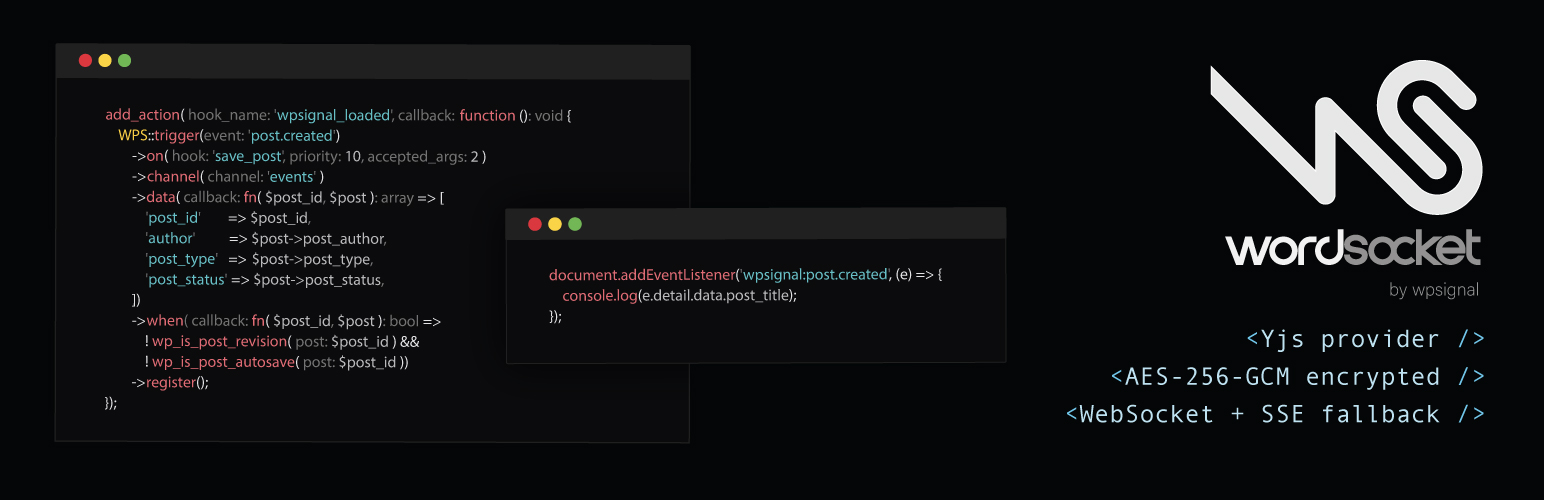
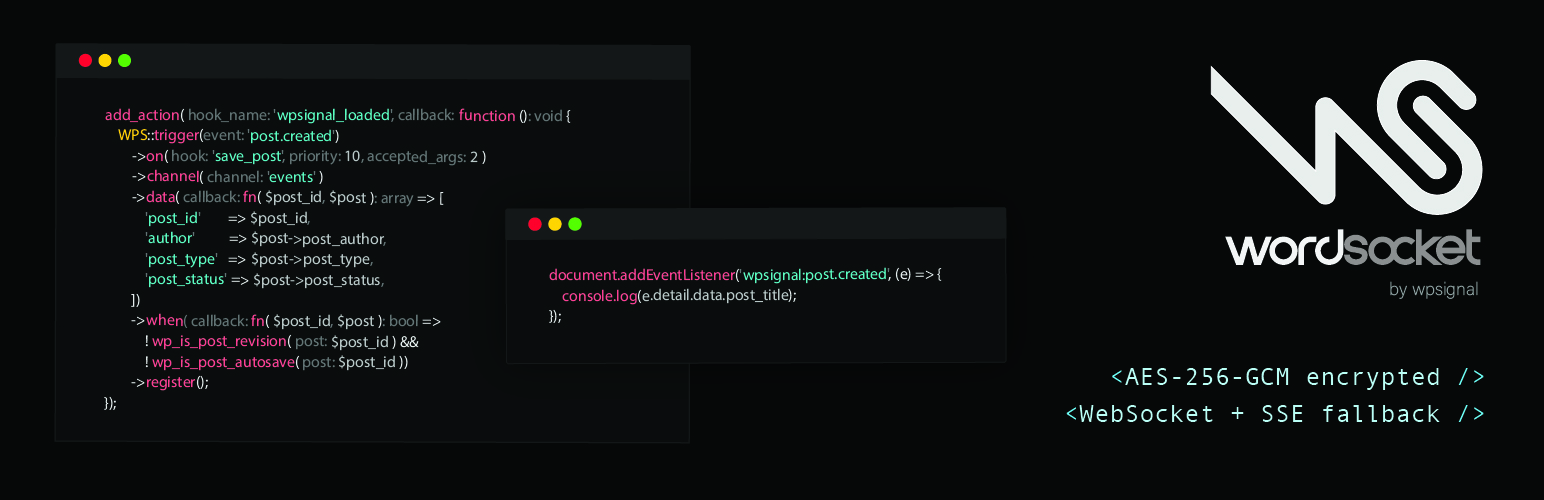
feat: add feedback form link, remove rtc

diff --git a/src/settings/TabSettings/index.tsx b/src/settings/TabSettings/index.tsx
@@ -61,7 +61,10 @@ export function TabSettings({ title }: { title: string }) {
     <div className="wpsignal-rtc-tab">
       <h2>{title}</h2>
       <h4>{__("Realtime Collaboration", "wordsocket")}</h4>
-      {wpVersion >= 7.0 ? (
+      <Notice status="warning" isDismissible={false}>
+        {__("The inclusion of real-time collaboration in WordPress 7.0 has been delayed and is not yet available.", "wordsocket")}
+      </Notice>
+      {/* {wpVersion >= 7.0 ? (
         isWpRtcEnabled ? (
           <ToggleControl
             disabled={
@@ -128,7 +131,7 @@ export function TabSettings({ title }: { title: string }) {
             </Notice>
           )}
         </>
-      )}
+      )} */}
     </div>
   );
 }

diff --git a/includes/class-wpsignal-admin-page.php b/includes/class-wpsignal-admin-page.php
@@ -171,6 +171,8 @@ class Admin_Page {
 		echo '<span aria-hidden="true"> / </span>';
 		echo '<a href="https://wordpress.org/support/plugin/wordsocket/" target="_blank" rel="noopener noreferrer">' . esc_html__( 'Support', 'wordsocket' ) . $new_tab_hint . '</a>';
 		echo '<span aria-hidden="true"> / </span>';
+		echo '<a href="https://docs.google.com/forms/d/e/1FAIpQLSeebdF0SjbhnCm6UhlVeXv5CtCA_NJgSf4nyb3rxOFIU32xYw/viewform?usp=publish-editor" target="_blank" rel="noopener noreferrer">' . esc_html__( 'Feedback', 'wordsocket' ) . $new_tab_hint . '</a>';
+		echo '<span aria-hidden="true"> / </span>';
 		echo '<a class="wpsignal-logo" href="https://wpsignal.io/?utm_source=wordpress&utm_medium=plugin&utm_campaign=settings-page" target="_blank" rel="noopener noreferrer" aria-label="' . esc_attr__( 'WPSignal home (opens in a new tab)', 'wordsocket' ) . '">';
 		echo '<svg xmlns="http://www.w3.org/2000/svg" xmlns:xlink="http://www.w3.org/1999/xlink" viewBox="0 0 443.21 252" aria-hidden="true" focusable="false">';
 		echo '<g>';

diff --git a/includes/class-wpsignal-client.php b/includes/class-wpsignal-client.php
@@ -182,13 +182,14 @@ class Client {
 		$asset = require $asset_file;
 		$deps  = array_merge( $asset['dependencies'], array( 'wpsignal', 'wp-hooks' ) );
 
-		wp_enqueue_script(
-			'wpsignal-yjs-provider',
-			URL . 'build/yjs-provider.js',
-			$deps,
-			$asset['version'],
-			true
-		);
+		// @TODO: Uncomment this when real-time collaboration is available.
+		// wp_enqueue_script(
+		// 	'wpsignal-yjs-provider',
+		// 	URL . 'build/yjs-provider.js',
+		// 	$deps,
+		// 	$asset['version'],
+		// 	true
+		// );
 
 		/**
 		 * Compute site_id the same way as Token::mint() so the Yjs channel

diff --git a/wordsocket.php b/wordsocket.php
@@ -2,7 +2,7 @@
 /**
  * Plugin Name:       WordSocket
  * Plugin URI:        https://wpsignal.io/wordsocket
- * Description:       WordSocket is the official WordPress plugin for WPSignal (wpsignal.io).
+ * Description:       WordSocket is the official WordPress plugin for <a href="https://wpsignal.io">wpsignal.io</a>.
  * Version:           0.15.1
  * Author:            WPSignal
  * Author URI:        https://wpsignal.io
